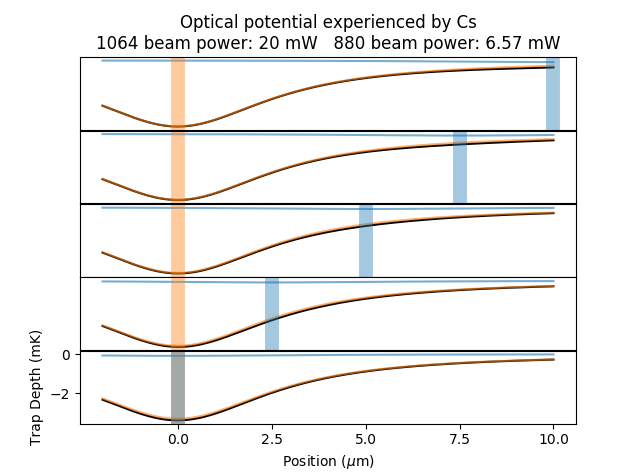
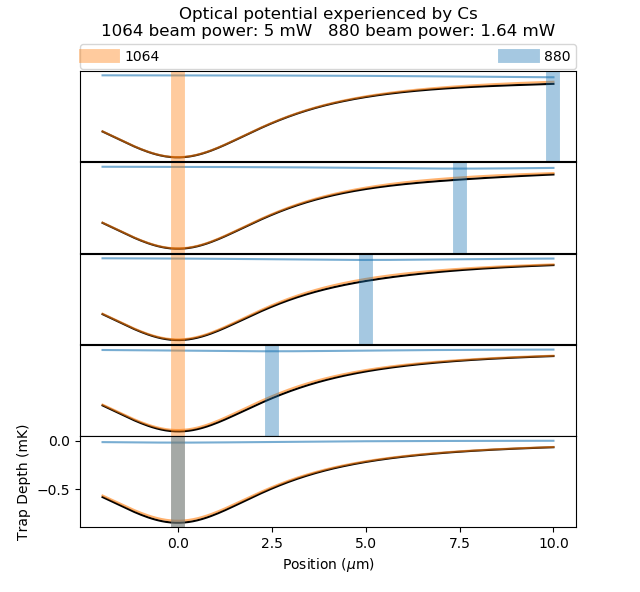
check if 880 is good for Rb tweezer trap

diff --git a/AtomFieldInt_V3.py b/AtomFieldInt_V3.py
@@ -94,6 +94,7 @@ over the possible mj values.
 """
 import numpy as np
 import matplotlib.pyplot as plt
+import sys
 import os
 os.chdir(os.path.dirname(os.path.realpath(__file__)))
 from math import factorial 
@@ -678,10 +679,22 @@ def runGUI():
     
 def combinedTrap(Cswl = 1064e-9, # wavelength of the Cs tweezer trap in m
                 Rbwl = 880e-9, # wavelength of the Rb tweezer trap in m
-                power = 6e-3, # power in W
+                power = 6e-3, # power of Cs tweezer beam in W
+                Rbpower = -1, # power of Rb tweezer beam in W 
                 beamwaist = 1e-6): # beam waist in m
     """Model tweezer traps for Rb and Cs and find the potential each experiences
-    when they're overlapping. Should fix the separate tweezer trap depths to >1mK"""
+    when they're overlapping. Should fix the separate tweezer trap depths to >1mK.
+    We also want Rb to experience a deeper trap from its tweezer than from the Cs
+    tweezer so that there isn't too much heating during merging.
+    args:
+    Cswl = 1064e-9, # wavelength of the Cs tweezer trap in m
+    Rbwl = 880e-9, # wavelength of the Rb tweezer trap in m
+    power = 6e-3, # power of Cs tweezer beam in W
+    Rbpower = -1, # power of Rb tweezer beam in W (if < 0 then choose a power
+    such that both species experience the same trap depth when the tweezers are
+    overlapping)
+    beamwaist = 1e-6 # beam waist in m
+    """
     bprop = [Cswl, power, beamwaist] # collect beam properties
     
     # For the 1064nm trap:
@@ -706,10 +719,11 @@ def combinedTrap(Cswl = 1064e-9, # wavelength of the Cs tweezer trap in m
                     
     # set the power of the traps so that the trap depth experienced by each 
     # species in the overlapping trap is the same:
-    P880 = (Cs1064.polarisability(Cswl,mj=0.5) - Rb1064.polarisability(Cswl, mj=0.5)) / (Rb1064.polarisability(Rbwl, mj=0.5) - Cs1064.polarisability(Rbwl, mj=0.5)) * power
+    if Rbpower < 0:
+        Rbpower = (Cs1064.polarisability(Cswl,mj=0.5) - Rb1064.polarisability(Cswl, mj=0.5)) / (Rb1064.polarisability(Rbwl, mj=0.5) - Cs1064.polarisability(Rbwl, mj=0.5)) * power
     
     # for the 880nm trap:
-    bprop = [Rbwl, abs(P880), beamwaist]
+    bprop = [Rbwl, abs(Rbpower), beamwaist]
     Rb880 = dipole(Rb.m, (0,1/2.,1,1), bprop,
                     Rb.D0S, Rb.w0S, Rb.lwS, Rb.nljS,
                     nuclear_spin = Rb.I,
@@ -725,7 +739,7 @@ def combinedTrap(Cswl = 1064e-9, # wavelength of the Cs tweezer trap in m
     U0 = abs(Rb1064.acStarkShift(0,0,0) + Rb880.acStarkShift(0,0,0))
     wrRb = np.sqrt(4*U0 / Rb.m / beamwaist**2) /2. /np.pi /1e3
     wrCs = np.sqrt(4*U0 / Cs.m / beamwaist**2) /2. /np.pi /1e3
-    print("%.0f beam power: %.3g mW\t\t%.0f beam power: %.3g mW"%(Cswl*1e9, power*1e3, Rbwl*1e9, P880*1e3))
+    print("%.0f beam power: %.3g mW\t\t%.0f beam power: %.3g mW"%(Cswl*1e9, power*1e3, Rbwl*1e9, Rbpower*1e3))
     print("""In the combined %.0fnm and %.0fnm trap with a depth of %.3g mK the radial trapping frequencies are: 
 Rubidium: %.0f kHz \nCaesium: %.0f kHz"""%(Rbwl*1e9, Cswl*1e9, U0/kB*1e3, wrRb, wrCs))
     
@@ -751,11 +765,9 @@ Rubidium: %.0f kHz \nCaesium: %.0f kHz"""%(Rbwl*1e9, Cswl*1e9, U0/kB*1e3, wrRb, 
     for atoms in [[Rb1064, Rb880], [Cs1064, Cs880]]:
         plt.figure()
         plt.subplots_adjust(hspace=0.01)
+        
         for i in range(n):
             ax = plt.subplot2grid((n,1), (i,0))
-            if i == 0:
-                ax.set_title("Optical potential experienced by "+atoms[0].X
-                +"\n%.0f beam power: %.3g mW   %.0f beam power: %.3g mW"%(Cswl*1e9, power*1e3, Rbwl*1e9, P880*1e3))
             
             U = (atoms[0].acStarkShift(0,0,zs) + atoms[1].acStarkShift(0,0,zs-sep[n-i-1]))/kB*1e3 # combined potential along the beam axis
             U1064 = atoms[0].acStarkShift(0,0,zs)/kB*1e3         # potential in the 1064 trap
@@ -767,10 +779,16 @@ Rubidium: %.0f kHz \nCaesium: %.0f kHz"""%(Rbwl*1e9, Cswl*1e9, U0/kB*1e3, wrRb, 
             plt.plot([sep[n-i-1]*1e6]*2, [min(U),0], color='tab:blue', linewidth=10, label='%.0f'%(Rbwl*1e9), alpha=0.4)
             ax.set_xticks([])
             ax.set_yticks([])
+
+            if i == 0:
+                ax.set_title("Optical potential experienced by "+atoms[0].X
+        +"\n%.0f beam power: %.3g mW   %.0f beam power: %.3g mW"%(Cswl*1e9, power*1e3, Rbwl*1e9, Rbpower*1e3),
+                    pad = 25)
+                plt.legend(bbox_to_anchor=(0., 1.02, 1., .102), loc=3, ncol=2, mode="expand", borderaxespad=0.)
+        
             
         plt.xlabel(r'Position ($\mu$m)')
         ax.set_xticks(sep*1e6)
-        plt.legend(bbox_to_anchor=(0., 1.02, 1., .102), loc=3, ncol=2, mode="expand", borderaxespad=0.)
         plt.ylabel('Trap Depth (mK)')
         ax.yaxis.set_major_locator(AutoLocator())
         
@@ -842,12 +860,13 @@ def compareKien():
         plt.ylabel("Polarisablity (a.u.)")
         plt.show()
     
-        
-if __name__ == "__main__":
-    #plot the st
-    wavelength = 880e-9 # wavelength in m
-    power = 5e-3 # beam power in W
-    beamwaist = 1e-6 # beam waist in m
+
+def check880trap(wavelength = 880e-9,     # wavelength in m
+                 power = 5e-3,            # beam power in W
+                 beamwaist = 1e-6):       # beam waist in m
+    """Plot graphs of the trap depth experienced by Cs around 880nm when 
+    the ground state Rb trap depth is fixed at 1mK. Look at the scattering
+    rates and hence trap lifetimes that are possible."""
     bprop = [wavelength, power, beamwaist]
     
     Rb5S = dipole(Rb.m, (0,1/2.,1,1), bprop,
@@ -884,8 +903,9 @@ if __name__ == "__main__":
 
     ax2 = ax1.twinx()
     # now the power and the wavelength are varied:
-    Ls = ['$S_{1/2}$', '$P_{3/2}$']
-    colors = ['tab:orange', 'tab:green', 'tab:red']
+    Llabels = ['$S_{1/2}$', '$P_{3/2}$']
+    colors = ['tab:orange', 'tab:red', 'tab:green']
+    linestyles = ['-', '-.', ':']
     Cs6SDepth = np.zeros(len(Powers))
     Cs6PDepth = np.zeros(len(Powers))
     Rb5PDepth = np.zeros(len(Powers))
@@ -896,7 +916,8 @@ if __name__ == "__main__":
             res[i] = 0.5*(obj.acStarkShift(0,0,0, wavels[i], mj=1.5) + 
                     obj.acStarkShift(0,0,0, wavels[i], mj=0.5))
         color = colors.pop(0)
-        ax2.plot(wavels*1e9, res*1e3/kB, color=color, label=obj.X+" "+Ls[obj.L])
+        ls = linestyles.pop(0)
+        ax2.plot(wavels*1e9, res*1e3/kB, color=color, label=obj.X+" "+Llabels[obj.L], linestyle=ls)
     ax2.plot(wavels*1e9, np.ones(len(wavels)), 'k--', alpha=0.75, label='Rb $5S_{1/2}$') # show 1 mK limit
     ax2.plot(wavels*1e9, np.zeros(len(wavels)), 'k', alpha=0.1) # show zero crossing    
     ax2.set_ylabel('Trap Depth (mK)', color='tab:orange')
@@ -907,24 +928,57 @@ if __name__ == "__main__":
 
     I = 2*power / np.pi / beamwaist**2
     # scattering rate of Cs from the D2 line:
-    # deltaCsD1 = 2*np.pi*c * (1/wavels - 1/Cs.rwS[0]) # detuning from D1 (rad/s)
-    # deltaCsD2 = 2*np.pi*c * (1/wavels - 1/Cs.rwS[35]) # detuning from D2 (rad/s)
-    # IsatCsD1 = 2.4981 *1e-3 *1e4 # saturation intensity for D1 transition, sigma polarised
-    # IsatCsD2 = 1.1023 *1e-3 *1e4 # saturation intensity for D2 transition, pi polarised
-    # Rsc = 0
-    # for vals in [[Cs.lwS[0], deltaCsD1, IsatCsD1], [Cs.lwS[35], deltaCsD2, IsatCsD2]]:
-    #     Rsc += vals[0]/2. * I/vals[2] / (1 + 4*(vals[1]/vals[0])**2 + I/vals[2])
+    deltaCsD1 = 2*np.pi*c * (1/wavels - 1/Cs.rwS[0]) # detuning from D1 (rad/s)
+    deltaCsD2 = 2*np.pi*c * (1/wavels - 1/Cs.rwS[35]) # detuning from D2 (rad/s)
+    IsatCsD1 = 2.4981 *1e-3 *1e4 # saturation intensity for D1 transition, sigma polarised
+    IsatCsD2 = 1.1023 *1e-3 *1e4 # saturation intensity for D2 transition, pi polarised
+    CsRsc = 0
+    for vals in [[Cs.lwS[0], deltaCsD1, IsatCsD1], [Cs.lwS[35], deltaCsD2, IsatCsD2]]:
+        CsRsc += vals[0]/2. * I/vals[2] / (1 + 4*(vals[1]/vals[0])**2 + I/vals[2])
+    Cstau = 1e-3*kB / (hbar*(2*np.pi/wavels))**2 * 2.*Cs.m / CsRsc # the lifetime is the trap depth / recoil energy / scattering rate
 
     # scattering rate of Rb from the D1 line:
     deltaRbD1 = 2*np.pi*c * (1/wavels - 1/Rb.rwS[0]) # detuning from D1 (rad/s)
     IsatRbD1 = 4.484 *1e-3 *1e4 # saturation intensity for D1 transition, pi polarised
-    Rsc = Rb.lwS[0]/2. * I/IsatRbD1 / (1 + 4*(deltaRbD1/Rb.lwS[0])**2 + I/IsatRbD1)
-    plt.figure()
-    plt.semilogy(wavels*1e9, Rsc/1e3)
-    plt.ylabel('Scattering rate (kHz)')
-    plt.xlabel('Wavelength (nm)')
-    plt.xlim(wavels[0]*1e9, wavels[-1]*1e9)
+    RbRsc = Rb.lwS[0]/2. * I/IsatRbD1 / (1 + 4*(deltaRbD1/Rb.lwS[0])**2 + I/IsatRbD1) # per second
+    Rbtau = 1e-3*kB / (hbar*(2*np.pi/wavels))**2 * 2.*Rb.m / RbRsc # the lifetime is the trap depth / recoil energy / scattering rate
+
+    # plot lifetime and scattering rate on the same axis:
+    for Rsc, tau, X in [[RbRsc, Rbtau, Rb.X], [CsRsc, Cstau, Cs.X]]:
+        fig, ax3 = plt.subplots()
+        ax3.set_title('Scattering rate and lifetime of ground state '+X+' in a 1 mK trap')
+        ax3.set_xlabel('Wavelength (nm)')
+        ax3.semilogy(wavels*1e9, Rsc, color='tab:blue')
+        ax3.set_ylabel('Scattering rate ($s^{-1}$)', color='tab:blue')
+        ax3.tick_params(axis='y', labelcolor='tab:blue')
+        ax3.set_xlim(wavels[0]*1e9, wavels[-1]*1e9)
+        ax3.set_ylim(1, 1e5)
+
+        ax4 = ax3.twinx()
+        ax4.semilogy(wavels*1e9, tau, color='tab:orange')
+        ax4.plot(wavels*1e9, np.zeros(len(wavels))+10, '--', color='tab:orange', alpha=0.25) # show acceptable region
+        ax4.set_ylabel('Lifetime (s)', color='tab:orange')
+        ax4.tick_params(axis='y', labelcolor='tab:orange')
+        ax4.set_ylim(0.1,100)
+        plt.tight_layout()
+    
     plt.show()
+    
+        
+if __name__ == "__main__":
+    # run GUI by passing an arg:
+    if np.size(sys.argv) > 1 and sys.argv[1] == 'rungui':
+        runGUI()
+        sys.exit() # don't run any of the other code below
+
+    combinedTrap(Cswl = 1064e-9, # wavelength of the Cs tweezer trap in m
+                Rbwl = 810e-9, # wavelength of the Rb tweezer trap in m
+                power = 5e-3, # power of Cs tweezer beam in W
+                Rbpower = 1e-3, # power of Rb tweezer beam in W 
+                beamwaist = 1e-6)
+
+    # getMFStarkShifts()
+    # plotStarkShifts(wlrange=[800,1100])
 
     # for STATES in [[Rb5S, Rb5P],[Cs6S, Cs6P]]:
     #     plt.figure()
@@ -939,9 +993,3 @@ if __name__ == "__main__":
     #     plt.ylim(-5,5)
     #     plt.plot(wavels*1e9, np.zeros(len(wavels)), 'k', alpha=0.25) # show zero crossing
     # plt.show()
-
-    # runGUI()
-    # combinedTrap(Rbwl=820e-9)
-    # getMFStarkShifts()
-    # plotStarkShifts(wlrange=[800,1100])
-    
